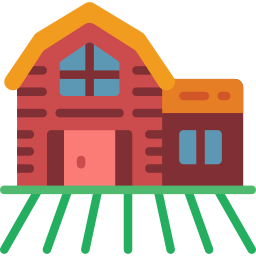
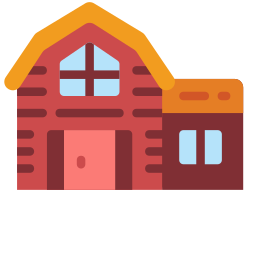
Image and css fixes

Changed region(s): [[0.0, 0.7188, 1.0, 1.0], [0.2188, 0.1562, 0.4688, 0.375], [0.6875, 0.5, 0.875, 0.6562]]

diff --git a/src/Layouts/HouseArea/HouseArea.tsx b/src/Layouts/HouseArea/HouseArea.tsx
@@ -25,13 +25,13 @@ export function HouseArea() {
     return (
         <Card className="house-area" shadow="sm" padding="0" radius="md" h={190} mb={10}>
             <div style={{ overflow: "hidden", height: "100%", position: "relative" }}>
+                <div className="tractor"></div>
+                <div className="hay"></div>
                 <div className="land"></div>
                 <div className="cloud"></div>
                 <div className="cloud2"></div>
                 <div className="tree"></div>
                 <Image className="barn" src={farm} h={140} w={140}></Image>
-                <div className="tractor"></div>
-                <div className="hay"></div>
                 <div className="tree-front-1">
                     <Slot
                         slotId={HOUSE_AREA_SLOT_IDS.S1}

diff --git a/src/Layouts/GardenArea/GardenArea.tsx b/src/Layouts/GardenArea/GardenArea.tsx
@@ -57,6 +57,7 @@ const LeftSection = ({ garden, findItemInSlotBySlotId }: SectionProps) => {
             </Group>
             <Image className="reeds" radius="md" h={70} w={70} src={reeds} />
             <Image className="marsh" radius="md" h={400} w={400} src={marsh} />
+            <Image className="reed2" radius="md" h={85} w={85} src={reeds} />
             <div className="marsh-slot1">
                 <Slot
                     slotId={DEFAULT_GARDEN_SLOTS.SL4}

diff --git a/src/Layouts/HouseArea/HouseArea.css b/src/Layouts/HouseArea/HouseArea.css
@@ -51,7 +51,7 @@
     height: 65px;
     position: absolute;
     right: calc(50% - 110px - 55px);
-    bottom: 25px;
+    bottom: 23px;
 }
 
 .hay {
@@ -60,8 +60,8 @@
     width: 60px;
     height: 60px;
     position: absolute;
-    right: calc(50% + 81px);
-    bottom: 39px;
+    right: calc(50% + 95px);
+    bottom: 35px;
 }
 
 .tree {

diff --git a/src/Layouts/GardenArea/GardenArea.css b/src/Layouts/GardenArea/GardenArea.css
@@ -73,3 +73,11 @@
     left: 75px;
     pointer-events: none;
 }
+
+.reed2 {
+    position: absolute;
+    bottom: -40px;
+    left: -60px;
+    pointer-events: none;
+    transform: scaleX(-1);
+}
